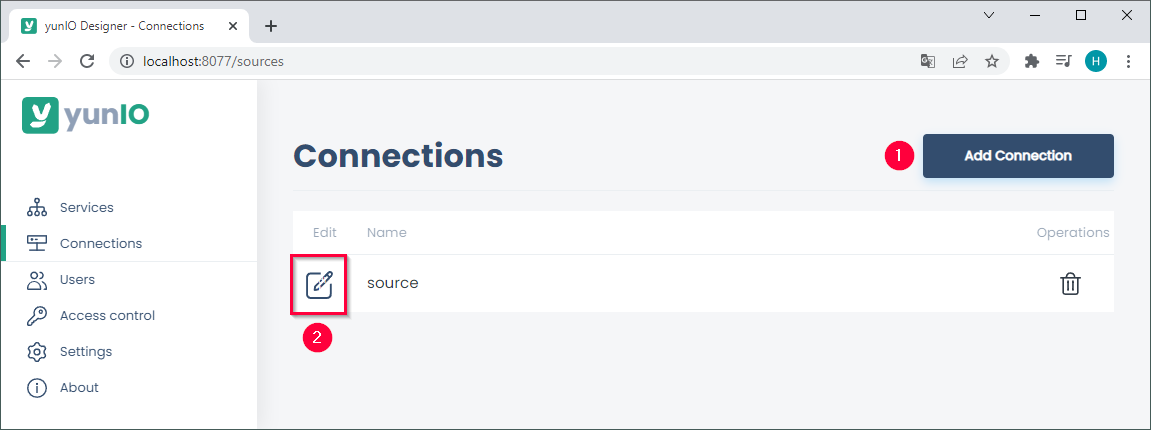
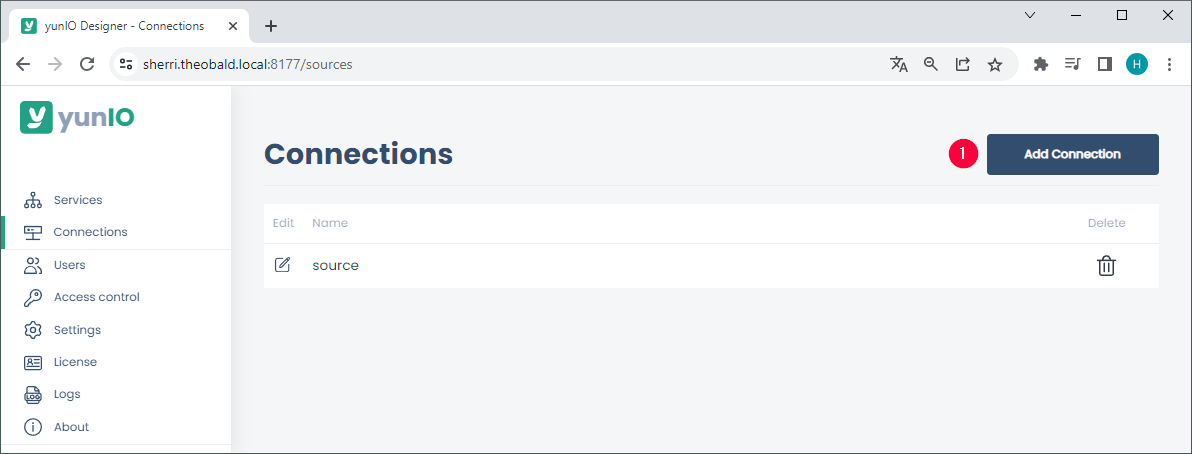
screenshot update

diff --git a/content/_de/yunio/erste-schritte.md b/content/_de/yunio/erste-schritte.md
@@ -30,12 +30,12 @@ Sie können den Port im yunIO Designer unter *Settings* konfigurieren. <br>
 Unter *Connections* können Sie neue SAP-Verbindungen hinzufügen und bereits angelegte SAP-Verbindung bearbeiten oder löschen. 
 
 1. Um eine neue Verbindung anzulegen, klicken Sie auf **[Add Connection]** (1). <br>
-Um eine bereits vorhandene Verbindung zu bearbeiten, klicken Sie auf *Edit* (![Edit](/img/content/yunio/edit.png) Icon) (2).<br>
+Um eine bereits vorhandene Verbindung zu bearbeiten, klicken Sie auf *Edit* (![Edit](/img/content/yunio/edit.png) Icon).<br>
 ![web-ui](/img/content/yunio/web-ui.png){:class="img-responsive"}
-2. Geben Sie die Verbindungsinformationen zu Ihrem SAP-System unter *System* (3) ein.<br>
+2. Geben Sie die Verbindungsinformationen zu Ihrem SAP-System unter *System* (2) ein.<br>
 ![yunIO-connection](/img/content/yunio/yunio-connections.png){:class="img-responsive" width="750px" }
-3. Geben Sie SAP-Anmeldedaten unter *Authentication* (4) ein.
-4. Um die Verbindung zu prüfen, klicken Sie auf **[Test Connection]** (5).<br>
+3. Geben Sie SAP-Anmeldedaten unter *Authentication* (3) ein.
+4. Um die Verbindung zu prüfen, klicken Sie auf **[Test Connection]** (4).<br>
 Je nachdem ob der Verbindungsaufbau erfolgreich war oder nicht, öffnet sich ein Fenster mit einer entsprechenden Statusmeldung.
 5. Speichern Sie Ihre Eingaben über **[Save]**.
 

diff --git a/content/_en/yunio/getting-started.md b/content/_en/yunio/getting-started.md
@@ -32,12 +32,12 @@ You can configure the port under *Settings* in the yunIO Designer.
 In the *Connection* menu you can add new SAP connections and edit or delete existing connections.
 
 1. To add a new SAP connection, click **[Add Connection]** (1).<br>
-To edit an existing connection, click the edit icon (![Edit](/img/content/yunio/edit.png)) of the connection you want to edit (2).
+To edit an existing connection, click the edit icon (![Edit](/img/content/yunio/edit.png)) of the connection you want to edit.
 ![web-ui](/img/content/yunio/web-ui.png){:class="img-responsive"}
-2. Enter the connection information of your SAP system under *System* (3).<br>
+2. Enter the connection information of your SAP system under *System* (2).<br>
 ![yunIO-connection](/img/content/yunio/yunio-connections.png){:class="img-responsive" width="750px" }
-3. Enter your SAP credentials under *Authentication* (4).
-4. To validate the connection parameters, click **[Test Connection]** (5). A window with a status message opens.
+3. Enter your SAP credentials under *Authentication* (3).
+4. To validate the connection parameters, click **[Test Connection]** (4). A window with a status message opens.
 5. Click **[Save]** to save the connection settings. <br>
 
 For more detailed information on establishing an SAP connection, see [SAP Connection](./sap-connection).
